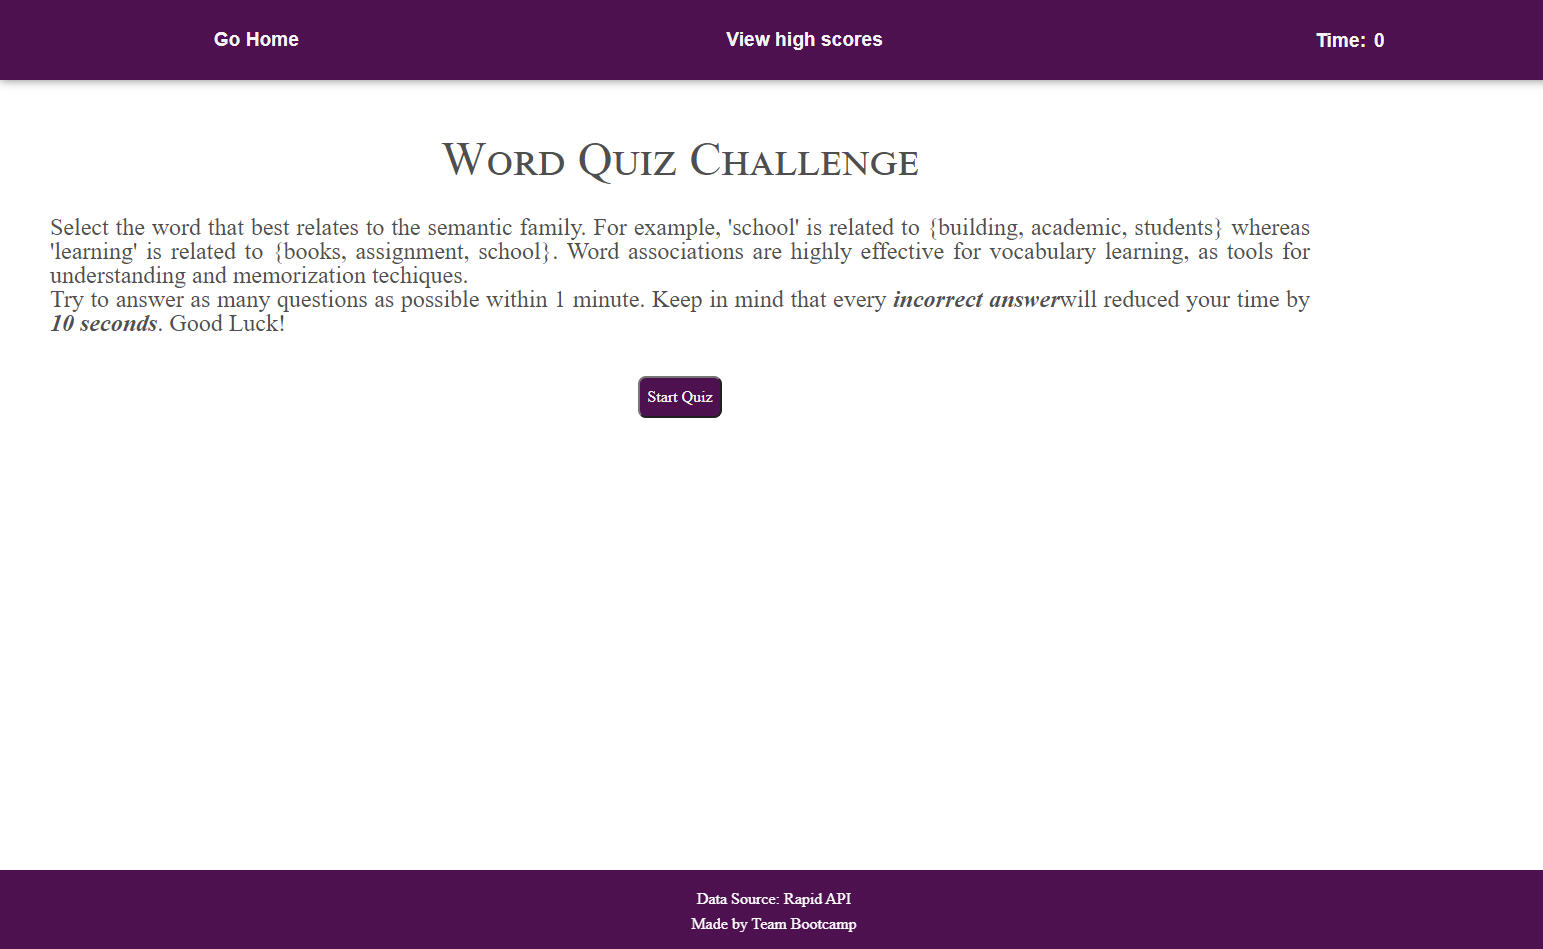
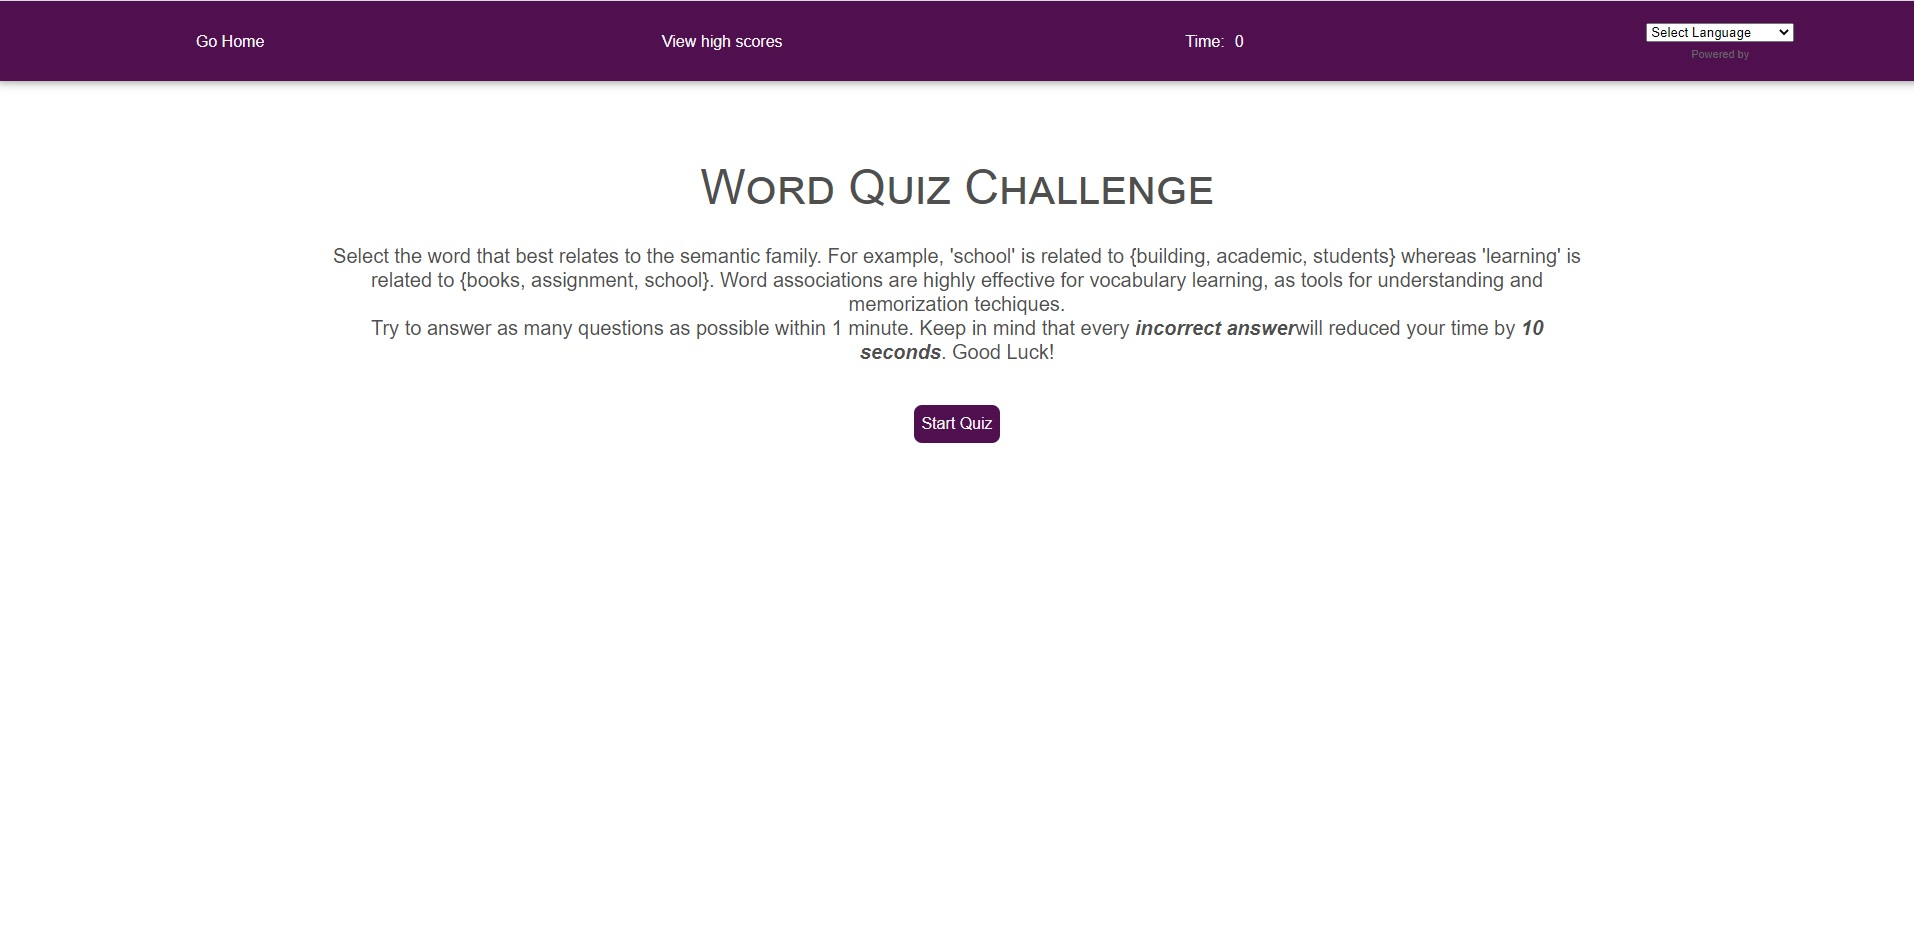
change screenshots

diff --git a/readme.md b/readme.md
@@ -13,7 +13,7 @@ As a student, I want to search and learn different words, so that I can  be bett
 3. When I click on ♡ symbol next to the searched word, then the word should be saved and be shown under favorite section.
 3. When I click on the "Word of the Day" tab, then I am presented with a random word for that day.
 4. When I click on the "Word Quiz" tab, then I will be redirected to another page to take a fun word quiz.
-5. When I click on translation tab, then I should be able to select the language and the whole page will be translated in the selected language.
+5. When I click on translation drop down menu, then I should be able to select the language and the whole page will be translated in the selected language.
 
 ## Live URL
 
@@ -38,9 +38,9 @@ Please find the project repository here - [(https://github.com/vsjanarthani/word
 
 ![code](./assets/images/word-quiz.jpg)
 
-* Translation
+* Word of the Day
 
-![code](./assets/images/translation.jpg)
+![code](./assets/images/WordOfDay.jpg)
 
 
 
